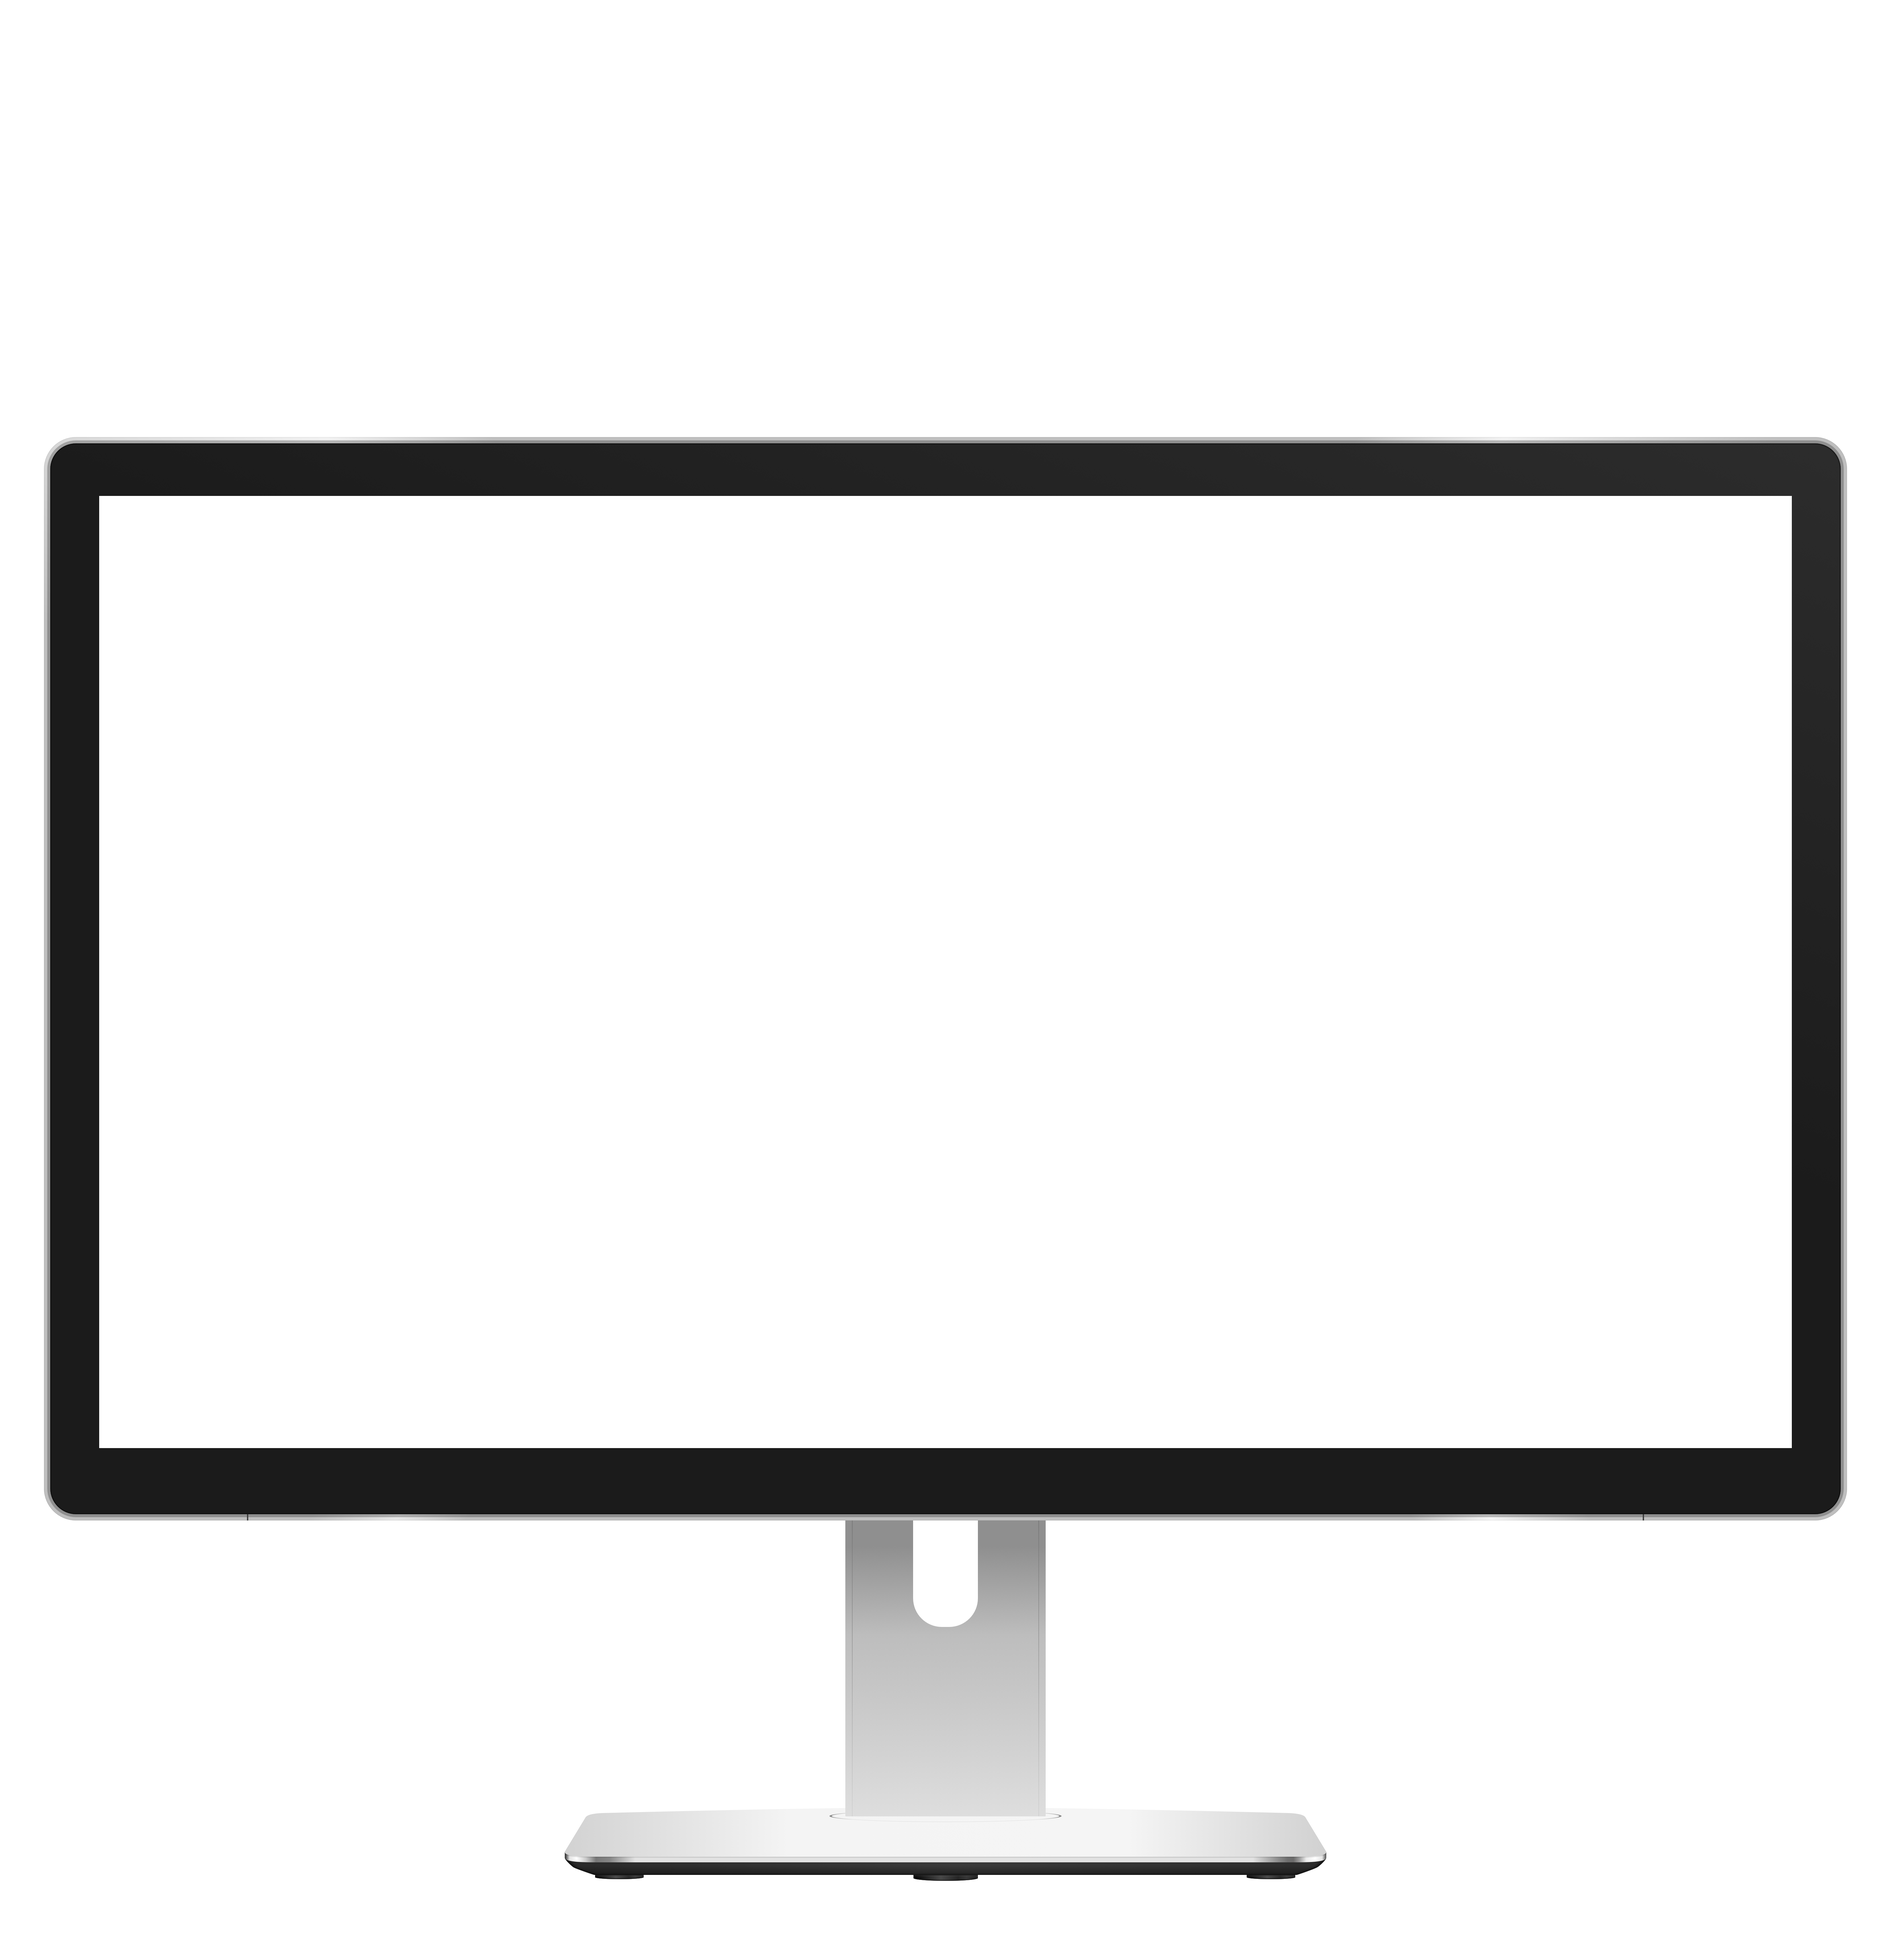
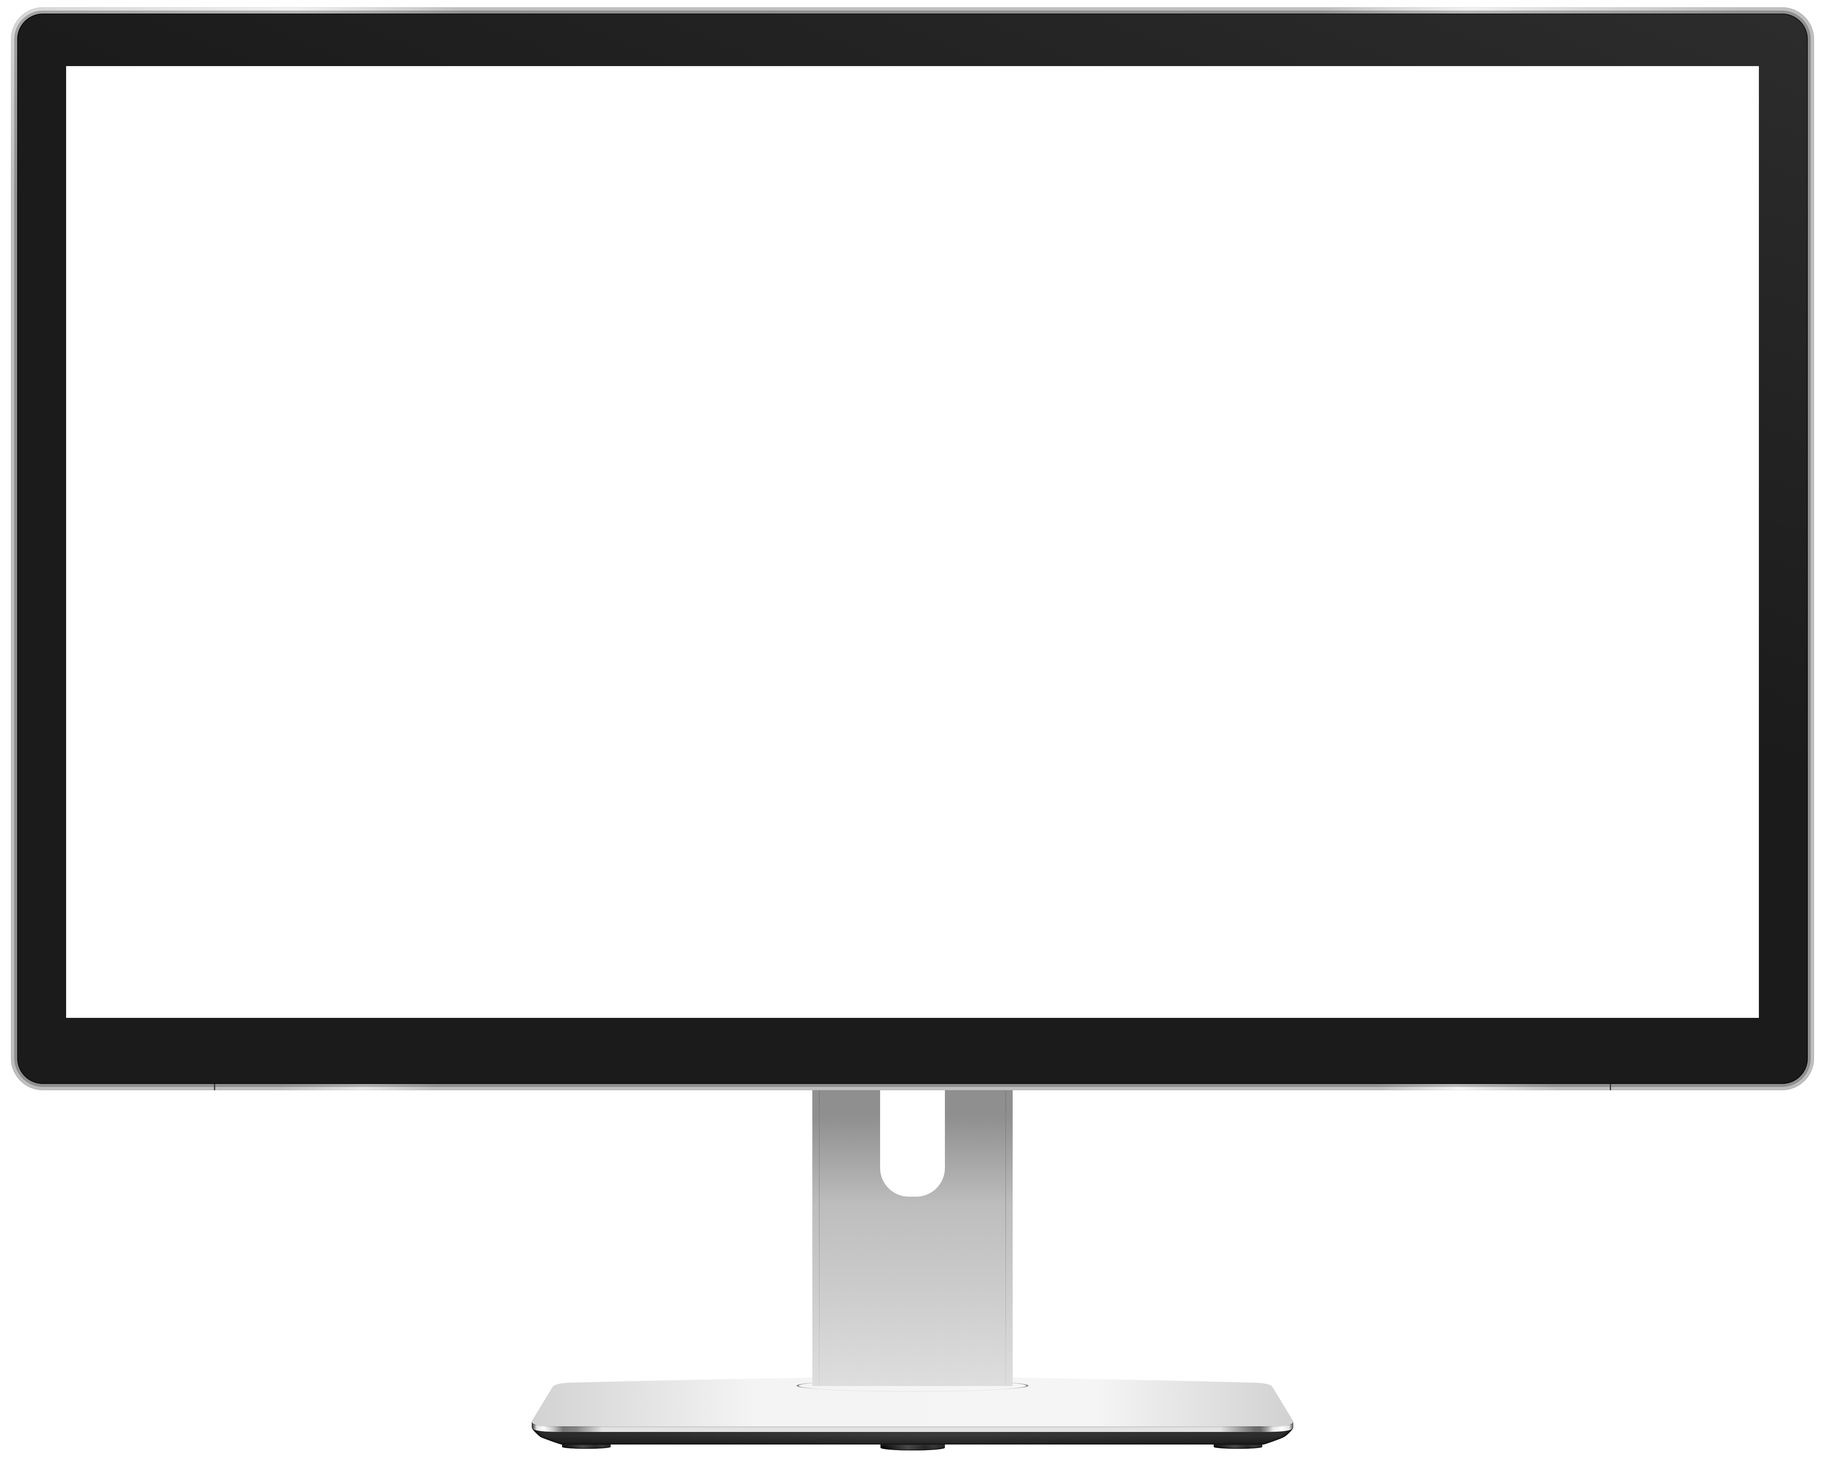
Added Pro Display XDR and Studio Display. Also edited the Dell UltraSharp 5k and iMac 24 to remove excess padding

Changed region(s): [[0.0, 0.0, 0.9971, 0.8399], [0.2804, 0.9333, 0.7167, 0.9955]]

diff --git a/README.md b/README.md
@@ -5,7 +5,9 @@ Apple is great and publishes device frames so you can use them for mockups. Unfo
 I’ve collected some of these for me to use, and will try and keep them up to date.
 
 ## Latest update - 5th Jun
-- Added the new M4 iPad Pros, and M2 iPad Airs
+- Edited the iMac 24 so the images are more nicely proportioned (with new coordinates)
+- Added the Pro Display XDR and Studio Display
+- Edited the Dell UltraSharp 5K so that the screenshot dimensions line up with the Studio Display
 
 Provided is:
 
@@ -31,6 +33,8 @@ Credits for the images are as follows:
 (Old iPad files)
 * iPad Pro 12.9 and 11 - Meta Device Frames (https://design.facebook.com/toolsandresources/devices/)
 * iPad Air 10.9 - Meta Device Frames (https://design.facebook.com/toolsandresources/devices/)
+* Pro Display XDR - I found this file and can't find the original, but I made quite a few edits, but still it's not just my work!
+* Studio Display - I edited the Pro Display XDR file, so half me, half someone else
 
 My to-do list:
 * A Google Sheet with dimensions and aspect ratios
